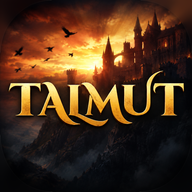
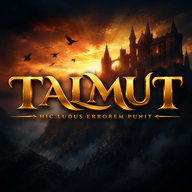
Add files via upload

diff --git a/index.html b/index.html
@@ -57,13 +57,15 @@
 <meta name="viewport" content="width=device-width, initial-scale=1.0, maximum-scale=1.0, user-scalable=no, viewport-fit=cover">
 <title>TALMUT</title>
 <meta name="description" content="TALMUT — el juego de cartas de memoria, reflejos y faroles. Juega online o lleva la puntuación con tu baraja.">
-<link rel="manifest" href="manifest.json">
+<link rel="manifest" href="manifest.json?v=10">
 <meta name="theme-color" content="#0A0A0B">
 <meta name="apple-mobile-web-app-capable" content="yes">
 <meta name="apple-mobile-web-app-status-bar-style" content="black-translucent">
 <meta name="apple-mobile-web-app-title" content="Talmut">
-<link rel="apple-touch-icon" href="icon-192.png">
-<link rel="icon" type="image/png" href="icon-192.png">
+<link rel="apple-touch-icon" sizes="180x180" href="apple-touch-icon.png?v=10">
+<link rel="icon" type="image/png" sizes="32x32" href="favicon-32.png?v=10">
+<link rel="icon" type="image/png" sizes="48x48" href="favicon-48.png?v=10">
+<link rel="icon" type="image/png" sizes="192x192" href="icon-192.png?v=10">
 <link href="https://fonts.googleapis.com/css2?family=Cinzel:wght@700;900&family=Cinzel+Decorative:wght@900&family=IM+Fell+English+SC&family=Inter+Tight:wght@400;500;600;700;800;900&family=Saira:ital,wght@0,500;1,900&family=Rajdhani:wght@500;600;700&display=swap" rel="stylesheet">
 <script src="https://cdn.jsdelivr.net/npm/@supabase/supabase-js@2"></script>
 <style>
@@ -1550,21 +1552,23 @@ html.in-frame #hist2Body{flex:1 1 auto;display:flex!important;flex-direction:col
 .c9{display:inline-block;padding:0 3px;border-radius:3px;background:#F4EBD6;color:#141414;font-weight:800;font-size:10.5px;line-height:1.35;font-family:var(--fb)}
 .c9.red{color:#C0141E}
 .c9.jk{font-size:8.5px;letter-spacing:.5px;color:#7A4FD6}
-#gTalmut.talmut-zone{margin:0;padding:0;border:0;flex:none;height:52px;display:block}
-.tal9{all:unset;box-sizing:border-box;position:relative;overflow:hidden;width:100%;height:52px;border-radius:14px;display:flex;flex-direction:column;align-items:center;justify-content:center;gap:1px;-webkit-user-select:none;user-select:none;-webkit-touch-callout:none;touch-action:none}
+#gTalmut.talmut-zone{margin:0;padding:0;border:0;flex:none;height:48px;display:block}
+.tal9{all:unset;box-sizing:border-box;position:relative;overflow:hidden;width:100%;height:48px;border-radius:999px;display:flex;flex-direction:column;align-items:center;justify-content:center;gap:1px;-webkit-user-select:none;user-select:none;-webkit-touch-callout:none;touch-action:none}
 .tal9 span{position:relative;display:flex;align-items:center;gap:6px;font-family:'Cinzel',serif;font-weight:900;font-size:19px;letter-spacing:3px;line-height:1}
 .tal9 small{position:relative;font-size:9.5px;letter-spacing:.3px;font-weight:600}
-.tal9.lock{background:rgba(40,8,12,.55);border:1.5px dashed rgba(232,52,62,.42);color:rgba(255,220,220,.38)}
-.tal9.on{cursor:pointer;background:linear-gradient(180deg,#F0444E,#8E0F17);border:2px solid #FF7A82;color:#fff;box-shadow:0 0 0 0 rgba(232,52,62,.6),0 6px 18px rgba(232,52,62,.45);animation:tal9p 1.3s ease-in-out infinite}
-.tal9.on small{color:#FFE2E3}
-@keyframes tal9p{50%{box-shadow:0 0 0 6px rgba(232,52,62,0),0 6px 26px rgba(232,52,62,.75)}}
-.tal9 .fill{position:absolute;left:0;top:0;bottom:0;width:0;background:linear-gradient(90deg,rgba(255,231,168,.25),rgba(255,231,168,.55));transition:width .12s linear}
-.tal9.holding .fill{width:100%;transition:width 1s linear}
+.tal9{border-radius:999px}
+.tal9.lock{background:#2A0B0F;border:2px dashed rgba(227,188,85,.38);color:rgba(255,231,168,.35)}
+.tal9.on{cursor:pointer;background:radial-gradient(circle at 50% 25%,#D3222E,#6E0910 75%);border:2px solid #E3BC55;color:#FFE7A8;box-shadow:inset 0 2px 0 rgba(255,255,255,.22),0 8px 22px rgba(200,32,43,.5);animation:tal9p 1.4s ease-in-out infinite}
+.tal9.on small{color:#FFD9A0}
+@keyframes tal9p{50%{box-shadow:inset 0 2px 0 rgba(255,255,255,.22),0 0 0 6px rgba(227,188,85,.18),0 8px 30px rgba(232,52,62,.8)}}
+.tal9 .fill{position:absolute;left:0;right:0;bottom:0;top:auto;width:auto;height:0;background:linear-gradient(180deg,#FFE7A8,#D4A83A);transition:height .15s ease-out}
+.tal9.holding .fill{height:100%;transition:height 1s linear}
+.tal9.holding span,.tal9.holding small{color:#3A0A0F}
 .tal9.holding{transform:scale(.97)}
-.tal9.done{background:#3A0A0F;border:1.5px solid #E8343E;color:#FF8088}
+.tal9.done{background:#3A0A0F;border:2px solid #E3BC55;color:#FFE7A8}
 .tal9.done small{color:#F4EBD6}
-.r9{display:grid;grid-template-columns:1fr 1fr;gap:5px}
-.r9 button{all:unset;box-sizing:border-box;cursor:pointer;height:32px;padding:0 3px;border-radius:10px;display:flex;align-items:center;justify-content:center;text-align:center;font-family:var(--k-ui,inherit);font-weight:700;font-size:10.5px;line-height:1.05;letter-spacing:-.1px;color:#F4EBD6;background:rgba(30,18,14,.92);box-shadow:inset 0 0 0 1.3px rgba(255,200,90,.5);overflow:hidden;transition:transform .1s,opacity .2s}
+.r9{display:grid;grid-template-columns:1fr 1fr;gap:4px}
+.r9 button{all:unset;box-sizing:border-box;cursor:pointer;height:25px;padding:0 6px;border-radius:999px;display:flex;align-items:center;justify-content:center;text-align:center;font-family:var(--k-ui,inherit);font-weight:700;font-size:9.5px;line-height:1;letter-spacing:-.1px;color:#F4EBD6;background:rgba(30,18,14,.92);box-shadow:inset 0 0 0 1.3px rgba(255,200,90,.5);overflow:hidden;transition:transform .1s,opacity .2s}
 .r9 button:active{transform:scale(.95);background:rgba(255,190,80,.3)}
 .r9 button.ctx{box-shadow:inset 0 0 0 1.3px #3FE0CF}
 .r9 button.mx{box-shadow:inset 0 0 0 1.3px #19FF56;color:#C9FFD6}
@@ -1583,11 +1587,39 @@ body.creer-on .r9,body.creer-on .tal9{visibility:hidden}
 #gOverlay .reveal-row .cards{justify-content:flex-start}
 #gOverlay .reveal-row .sc{min-width:0}
 #gOverlay h2{margin-top:0!important}
+.r9 button.mx{font-size:9px;letter-spacing:-.3px;padding:0 3px}
+/* pausa (Arcade) */
+#pauseBtn{display:none}
+body.arcade #pauseBtn{display:inline-flex}
+.g-top{gap:4px}
+.pause-ov{position:fixed;inset:0;z-index:250;display:flex;flex-direction:column;align-items:center;justify-content:center;gap:14px;background:rgba(10,3,5,.86);backdrop-filter:blur(6px);-webkit-backdrop-filter:blur(6px);animation:pzIn .25s ease-out}
+@keyframes pzIn{from{opacity:0}}
+.pause-ov h2{margin:0;font-family:'Cinzel',serif;font-weight:900;font-size:54px;letter-spacing:8px;color:#FFE7A8;text-shadow:0 6px 24px rgba(0,0,0,.6)}
+.pause-ov p{margin:0;font-size:13px;color:rgba(255,255,255,.7)}
+.pause-ov .btn{width:220px}
+/* pausa (Arcade) */
+.pause-ov{position:fixed;inset:0;z-index:250;display:flex;align-items:center;justify-content:center;background:rgba(6,2,3,.78);backdrop-filter:blur(4px);-webkit-backdrop-filter:blur(4px);animation:f9in .25s ease-out}
+.pz-card{width:min(340px,86vw);display:flex;flex-direction:column;align-items:center;gap:10px;padding:24px 22px;border-radius:18px;background:linear-gradient(180deg,#2A0A0E,#140506);border:1.5px solid #E3BC55;box-shadow:0 18px 50px rgba(0,0,0,.6);text-align:center}
+.pz-card h2{margin:4px 0 0;font-family:'Cinzel',serif;font-weight:900;letter-spacing:3px;font-size:22px;color:#FFE7A8}
+.pz-card p{margin:0 0 6px;font-size:12.5px;color:var(--dim)}
+.pz-card .btn{width:100%}
+.pz-ic{display:flex;gap:8px}.pz-ic i{width:12px;height:38px;border-radius:3px;background:#E3BC55}
+body.paused9 #screen-game *{animation-play-state:paused!important}
+#screen-game .g-top #pauseBtn{flex:none}
+/* 5 rivales: cartas un poco más pequeñas para que no se monten */
+.g-main .opps.n5 .opp .pc.sm{width:21px;height:30px}
+.g-main .opps.n5 .opp .row{gap:2px}
+.g-main .opps.n4 .opp .pc.sm{width:24px;height:34px}
+/* logo oficial (PNG de Ignacio) */
+#splash7 .s7-logo{display:block;width:min(78vw,720px);height:auto;filter:drop-shadow(0 6px 18px rgba(0,0,0,.7)) drop-shadow(0 0 40px rgba(255,140,40,.35));animation:s7in 1.2s .2s both}
+.k-logoimg{display:block;width:clamp(200px,30vw,330px);height:auto;margin:0 auto;filter:drop-shadow(0 3px 8px rgba(0,0,0,.7))}
+html.in-frame .k-logoimg{width:250px}
+@media (max-width:800px){html.in-frame .k-logoimg{width:210px}}
 </style>
 </head>
 <body>
 <div id="intro" onclick="endIntro()" aria-label="SM42 Developer Studio"><div class="tapgo" data-t="intro.tap">Toca para empezar</div><div class="flash"></div><div class="stage"><div class="word"><span>S</span><span>M</span><span>4</span><span>2</span></div><div class="sub">DEVELOPER STUDIO</div></div></div>
-<div id="splash7" class="hidden" onclick="enterSplash7()"><div class="s7-bg"></div><div class="s7-vign"></div><div class="s7-mid"><div class="s7-w"><span class="s7-gold">TALMUT</span></div><div class="s7-tag">HIC LUDUS ERROREM PUNIT</div></div><div class="s7-press">PULSA PARA ENTRAR</div></div>
+<div id="splash7" class="hidden" onclick="enterSplash7()"><div class="s7-bg"></div><div class="s7-vign"></div><div class="s7-mid"><img class="s7-logo" src="talmut-logo.webp" alt="TALMUT · Hic ludus errorem punit"></div><div class="s7-press">PULSA PARA ENTRAR</div></div>
 
 
 <div class="toast-wrap" id="toasts"></div>
@@ -1607,7 +1639,7 @@ body.creer-on .r9,body.creer-on .tal9{visibility:hidden}
       <button class="iconbtn" onclick="openSettings()" aria-label="Ajustes"><svg width="18" height="18" viewBox="0 0 24 24" fill="none" stroke="#FFE6A1" stroke-width="1.8" stroke-linecap="round" stroke-linejoin="round"><circle cx="12" cy="12" r="3"/><path d="M19.4 15a1.65 1.65 0 0 0 .33 1.82l.06.06a2 2 0 0 1-2.83 2.83l-.06-.06a1.65 1.65 0 0 0-1.82-.33 1.65 1.65 0 0 0-1 1.51V21a2 2 0 0 1-4 0v-.09A1.65 1.65 0 0 0 9 19.4a1.65 1.65 0 0 0-1.82.33l-.06.06a2 2 0 0 1-2.83-2.83l.06-.06A1.65 1.65 0 0 0 4.68 15a1.65 1.65 0 0 0-1.51-1H3a2 2 0 0 1 0-4h.09A1.65 1.65 0 0 0 4.6 9a1.65 1.65 0 0 0-.33-1.82l-.06-.06a2 2 0 0 1 2.83-2.83l.06.06A1.65 1.65 0 0 0 9 4.68a1.65 1.65 0 0 0 1-1.51V3a2 2 0 0 1 4 0v.09a1.65 1.65 0 0 0 1 1.51 1.65 1.65 0 0 0 1.82-.33l.06-.06a2 2 0 0 1 2.83 2.83l-.06.06A1.65 1.65 0 0 0 19.4 9a1.65 1.65 0 0 0 1.51 1H21a2 2 0 0 1 0 4h-.09a1.65 1.65 0 0 0-1.51 1z"/></svg></button>
     </div>
   </div>
-  <div class="k-logo"><div class="k-w">TALMUT</div><div class="k-sub">HIC LUDUS ERROREM PUNIT</div></div>
+  <div class="k-logo"><img class="k-logoimg" src="talmut-logo.webp" alt="TALMUT · Hic ludus errorem punit"></div>
 
   <button id="continueBtn" class="k-cont hidden" onclick="continueScorer()"><svg width="12" height="14" viewBox="0 0 18 20"><polygon points="3,2 16,10 3,18" fill="#6BBF7A"/></svg><b data-t="m.continue"></b><small id="continueDesc"></small></button>
 
@@ -5412,7 +5444,7 @@ async function forceUpdate(){
   try{const ks=await caches.keys();await Promise.all(ks.map(k=>caches.delete(k)))}catch(e){}
   const w=window.top||window;w.location.replace(w.location.pathname+'?v='+Date.now());
 }
-const APP_VER='9.0';
+const APP_VER='9.2';
 (function(){const m=document.getElementById('settingsModal');if(!m)return;const rows=m.querySelectorAll('.set-row');const last=rows[rows.length-1];if(!last)return;
   const d=document.createElement('div');d.className='set-row';d.innerHTML=`<div><b>${L('Actualizar la app','Update the app')}</b><small>${L('Versión','Version')} ${APP_VER} · ${L('descarga la última versión','get the latest version')}</small></div><button class="btn btn-gold" style="width:auto;padding:8px 14px;font-size:12px" onclick="forceUpdate()">↻ ${L('Actualizar','Update')}</button>`;
   last.after(d)})();
@@ -6001,6 +6033,76 @@ const _tmu9=toggleMusic;toggleMusic=function(){const r=_tmu9.apply(this,argument
 const _os9=openSettings;openSettings=function(){const r=_os9.apply(this,arguments);try{document.getElementById('sfxSwitch').classList.toggle('on',SND.sfxOn);document.getElementById('musicSwitch').classList.toggle('on',SND.musicOn)}catch(e){}return r};
 // la gallina también respeta el botón de efectos
 SFX.hen=function(){try{if(!HEN_AUDIO||!SND.sfxOn)return;const a=HEN_AUDIO.cloneNode();a.volume=.85;a.play().catch(()=>{})}catch(e){}};
+
+// ---------- PAUSA en Arcade ----------
+UI.paused=false;UI.pausedAt=0;
+(function(){
+  const top=document.querySelector('#screen-game .g-top');if(!top||document.getElementById('pauseBtn'))return;
+  const sc=top.querySelector('button[onclick="openScoresModal()"]');
+  const b=document.createElement('button');b.className='iconbtn';b.id='pauseBtn';b.setAttribute('aria-label','Pausa');b.setAttribute('onclick','pauseGame()');
+  b.innerHTML='<svg width="16" height="16" viewBox="0 0 24 24" fill="#FFE6A1"><rect x="6" y="4" width="4" height="16" rx="1.2"/><rect x="14" y="4" width="4" height="16" rx="1.2"/></svg>';
+  if(sc)top.insertBefore(b,sc);else top.appendChild(b);
+})();
+function canPause(){return !!(G&&G.local&&LOCAL&&!TUT&&['peek','play','round_end'].includes(G.pub.status))}
+function pauseGame(){
+  if(UI.paused||!canPause())return;
+  UI.paused=true;UI.pausedAt=Date.now();holdEnd&&holdEnd();
+  try{stopMusic()}catch(e){}
+  document.querySelectorAll('.pause-ov').forEach(e=>e.remove());
+  const d=document.createElement('div');d.className='pause-ov';
+  d.innerHTML=`<h2>${L('PAUSA','PAUSED')}</h2><p>${L('La partida está parada. Nadie juega hasta que vuelvas.','The game is stopped. Nobody plays until you come back.')}</p><button class="btn btn-gold" onclick="resumeGame()">▶ ${L('Continuar','Resume')}</button><button class="btn btn-ghost" onclick="pauseLeave(this)">${L('Salir de la partida','Leave game')}</button>`;
+  document.body.appendChild(d);play('tap');
+}
+function pauseLeave(b){if(!b.dataset.sure){b.dataset.sure=1;b.textContent=L('Pulsa otra vez para salir','Tap again to leave');return}UI.paused=false;document.querySelectorAll('.pause-ov').forEach(e=>e.remove());leaveOnline(true)}
+function resumeGame(){
+  if(!UI.paused)return;
+  const ms=Date.now()-UI.pausedAt;UI.paused=false;
+  try{if(LOCAL&&LOCAL.pub){if(LOCAL.pub.deadline)LOCAL.pub.deadline+=ms;if(G&&G.pub!==LOCAL.pub&&G.pub.deadline)G.pub.deadline+=ms;if(LOCAL.sched)LOCAL.sched.at+=ms}}catch(e){}
+  advanceKey='';
+  document.querySelectorAll('.pause-ov').forEach(e=>e.remove());
+  try{if(SND.musicOn)startMusic()}catch(e){}
+  play('go');if(G)renderGame();
+}
+const _tkP=tick;tick=function(){if(UI.paused)return;return _tkP.apply(this,arguments)};
+const _btP=botTick;botTick=function(){if(UI.paused)return;return _btP.apply(this,arguments)};
+const _tcP=tapCard;tapCard=function(){if(UI.paused)return;return _tcP.apply(this,arguments)};
+const _tdP=tapDeck;tapDeck=function(){if(UI.paused)return;return _tdP.apply(this,arguments)};
+setInterval(()=>{const on=canPause()&&currentScreen()==='screen-game';document.body.classList.toggle('arcade',on);if(UI.paused&&(!G||!G.local)){UI.paused=false;document.querySelectorAll('.pause-ov').forEach(e=>e.remove())}},500);
+// si sales de la app en mitad de una partida de Arcade, se pausa sola
+document.addEventListener('visibilitychange',()=>{if(document.hidden&&canPause()&&currentScreen()==='screen-game')pauseGame()});
+
+// ---------- ARCADE: pausar la partida ----------
+UI.paused=false;
+function canPause9(){return !!(G&&G.local&&LOCAL&&!TUT&&['peek','play','round_end'].includes(G.pub.status))}
+function pauseGame(auto){
+  if(!canPause9()||UI.paused)return;
+  UI.paused=true;UI.pausedAt=Date.now();try{holdEnd()}catch(e){}
+  document.querySelectorAll('.pause-ov').forEach(e=>e.remove());
+  const o=document.createElement('div');o.className='pause-ov';
+  const p=G.pub;
+  o.innerHTML=`<div class="pz-card"><div class="pz-ic"><i></i><i></i></div><h2>${L('PARTIDA EN PAUSA','GAME PAUSED')}</h2><p>${L(`Ronda ${Math.max(1,p.round)} de ${p.totalRounds} · el tiempo está parado`,`Round ${Math.max(1,p.round)} of ${p.totalRounds} · the clock is stopped`)}</p><button class="btn btn-gold" onclick="resumeGame()">▶ ${L('Continuar','Resume')}</button><button class="btn btn-ghost" onclick="resumeGame(true);leaveOnline(true)">${L('Salir al menú','Quit to menu')}</button></div>`;
+  document.body.appendChild(o);document.body.classList.add('paused9');
+  if(!auto){play('tap');buzz(20)}
+}
+function resumeGame(silent){
+  if(!UI.paused)return;
+  const dt=Date.now()-UI.pausedAt;UI.paused=false;
+  try{if(LOCAL&&LOCAL.pub){if(LOCAL.pub.deadline)LOCAL.pub.deadline+=dt;if(G&&G.pub!==LOCAL.pub&&G.pub.deadline)G.pub.deadline+=dt;if(LOCAL.sched)LOCAL.sched.at+=dt}}catch(e){}
+  for(const k in UI.flash)UI.flash[k].until+=dt;for(const k in UI.hl)UI.hl[k]+=dt;
+  advanceKey='';
+  document.querySelectorAll('.pause-ov').forEach(e=>e.remove());document.body.classList.remove('paused9');
+  if(!silent){play('go');if(G&&currentScreen()==='screen-game')renderGame()}
+}
+const _tk9p=tick;tick=function(){if(UI.paused){if(!G||!G.local)resumeGame(true);return}return _tk9p.apply(this,arguments)};
+const _bt9p=botTick;botTick=function(){if(UI.paused)return;return _bt9p.apply(this,arguments)};
+
+const _sl9p=stopLocal;stopLocal=function(){if(UI.paused){UI.paused=false;document.querySelectorAll('.pause-ov').forEach(e=>e.remove());document.body.classList.remove('paused9')}return _sl9p.apply(this,arguments)};
+// botón de pausa junto a la ronda (solo en Arcade)
+(function(){const top=document.querySelector('#screen-game .g-top');if(!top||document.getElementById('pauseBtn'))return;
+  const sb=top.lastElementChild;sb.insertAdjacentHTML('beforebegin',`<button class="iconbtn" id="pauseBtn" onclick="pauseGame()" aria-label="${L('Pausa','Pause')}"><svg width="16" height="16" viewBox="0 0 24 24" fill="#FFE6A1"><rect x="6" y="4" width="4" height="16" rx="1.2"/><rect x="14" y="4" width="4" height="16" rx="1.2"/></svg></button>`)})();
+setInterval(()=>{const b=document.getElementById('pauseBtn');if(b)b.style.display=canPause9()?'':'none'},500);
+// si sales de la app en mitad de una partida de Arcade, se pausa sola
+document.addEventListener('visibilitychange',()=>{if(document.hidden&&canPause9())pauseGame(true)});
 
 applyI18n();
 refreshMenu();

diff --git a/sw.js b/sw.js
@@ -1,7 +1,7 @@
 // TALMUT — service worker: permite abrir la app sin conexión (marcador, historial, instrucciones).
 // El modo online siempre va a la red.
-const CACHE = 'talmut-v9';
-const SHELL = ['./', './index.html', './manifest.json', './privacy.html', './icon-192.png', './icon-256.png', './icon-512.png', './classic-back.jpg', './niveles.jpg'];
+const CACHE = 'talmut-v10';
+const SHELL = ['./', './index.html', './manifest.json', './privacy.html', './icon-192.png', './icon-256.png', './icon-512.png', './talmut-logo.webp', './favicon-32.png', './apple-touch-icon.png', './classic-back.jpg', './niveles.jpg'];
 
 self.addEventListener('install', (e) => {
   e.waitUntil(caches.open(CACHE).then((c) => Promise.allSettled(SHELL.map((u) => c.add(u)))).then(() => self.skipWaiting()));
